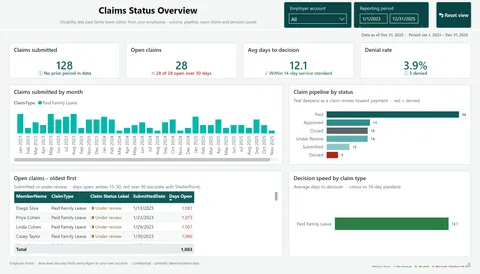
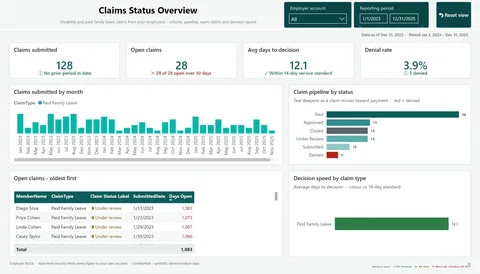
Redact a name from the employer claims report images and add OCR image scan tools
Claude-Session: https://claude.ai/code/session_01LG9RihfndfJYJETmS6yUSm

Changed region(s): [[0.0312, 0.6715, 0.4375, 0.7007], [0.6875, 0.0, 0.7188, 0.0292], [0.25, 0.0292, 0.2812, 0.0584]]

diff --git a/tools/validate/ocr-scan.py b/tools/validate/ocr-scan.py
@@ -1,0 +1,40 @@
+#!/usr/bin/env python3
+"""OCR every image under the given folders and report files whose text contains a blocklist term.
+Never prints a term, only the file, the tier and a count. Usage: ocr_scan.py <blocklist> <dir> [<dir>...]"""
+import sys, re, os
+from rapidocr_onnxruntime import RapidOCR
+from PIL import Image
+import numpy as np
+
+bl, dirs = sys.argv[1], sys.argv[2:]
+terms = []; tier = 'hard'
+for line in open(bl, encoding='utf8'):
+    t = line.strip()
+    if not t: continue
+    m = re.match(r'#\s*tier:\s*(\w+)', t)
+    if m: tier = m.group(1); continue
+    if t.startswith('#'): continue
+    terms.append((tier, re.sub(r'[^a-z0-9]', '', t.lower())))
+ocr = RapidOCR()
+hits = 0; scanned = 0
+for d in dirs:
+    for root, _, files in os.walk(d):
+        for f in sorted(files):
+            if not f.lower().endswith(('.png', '.jpg', '.jpeg', '.webp')): continue
+            p = os.path.join(root, f)
+            try:
+                im = Image.open(p).convert('RGB')
+            except Exception: continue
+            # scan the full image and a 2x upscale of any small one
+            variants = [im] + ([im.resize((im.width * 2, im.height * 2))] if im.width < 1300 else [])
+            text = ''
+            for v in variants:
+                res, _ = ocr(np.array(v))
+                text += ' ' + ' '.join(r[1] for r in (res or []))
+            flat = re.sub(r'[^a-z0-9]', '', text.lower())
+            found = [(t, k) for t, k in terms if k and k in flat]
+            scanned += 1
+            if found:
+                hits += 1
+                print(f"HIT {p}: " + ', '.join(f"{t}x{flat.count(k)}" for t, k in found))
+print(f"scanned {scanned} images, {hits} with hits")

diff --git a/tools/validate/ocr-redact.py b/tools/validate/ocr-redact.py
@@ -1,0 +1,22 @@
+import sys, re
+from rapidocr_onnxruntime import RapidOCR
+from PIL import Image, ImageDraw
+import numpy as np
+bl, paths = sys.argv[1], sys.argv[2:]
+terms=[]
+for l in open(bl,encoding='utf8'):
+    t=l.strip()
+    if t and not t.startswith('#'): terms.append(re.sub(r'[^a-z0-9]','',t.lower()))
+terms=[t for t in terms if t]
+ocr=RapidOCR()
+for p in paths:
+    im=Image.open(p).convert('RGB'); d=ImageDraw.Draw(im); n=0
+    res,_=ocr(np.array(im))
+    for box,txt,_c in (res or []):
+        flat=re.sub(r'[^a-z0-9]','',txt.lower())
+        if any(t in flat for t in terms):
+            xs=[q[0] for q in box]; ys=[q[1] for q in box]
+            x0,x1,y0,y1=int(min(xs))-3,int(max(xs))+3,int(min(ys))-2,int(max(ys))+2
+            bg=im.getpixel((max(x0-4,0),(y0+y1)//2))
+            d.rectangle([x0,y0,x1,y1],fill=bg); n+=1
+    im.save(p,'WEBP',quality=92); print(p,'boxes',n)
